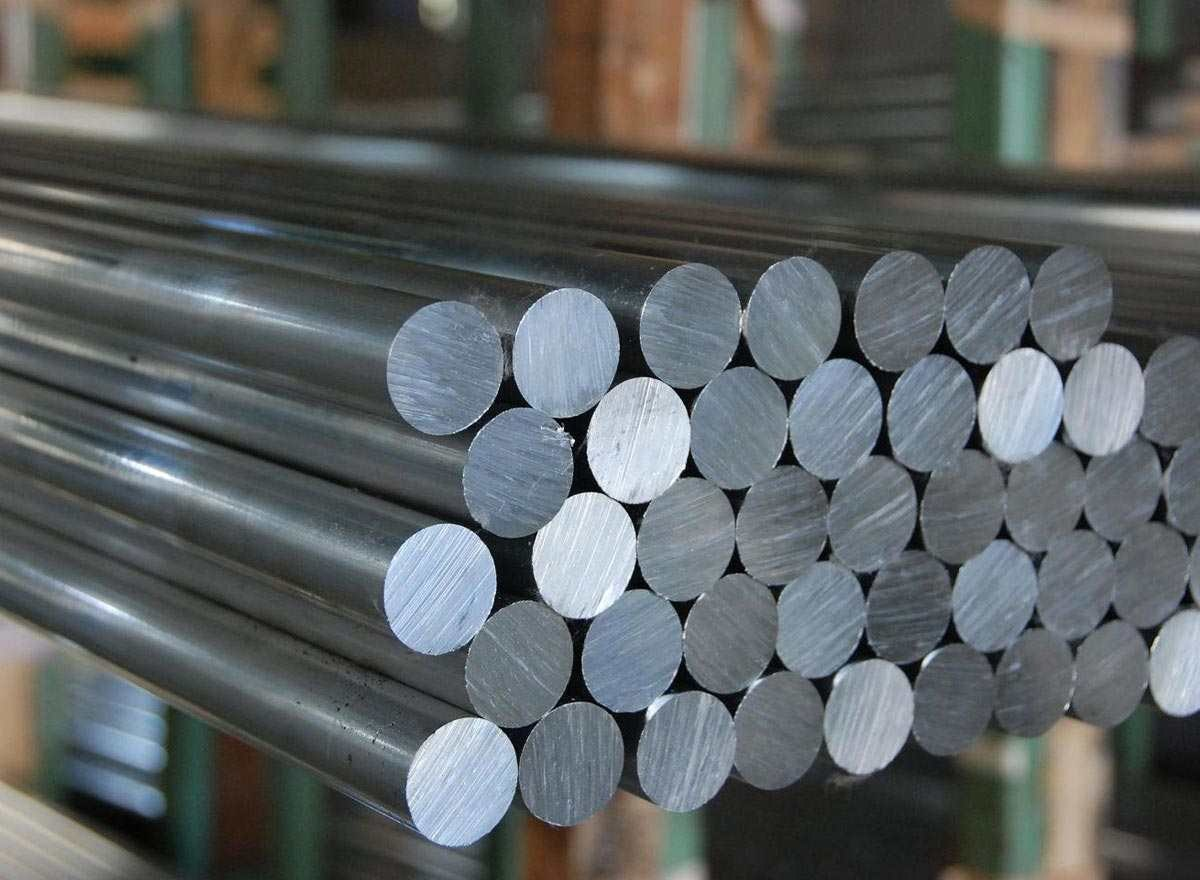
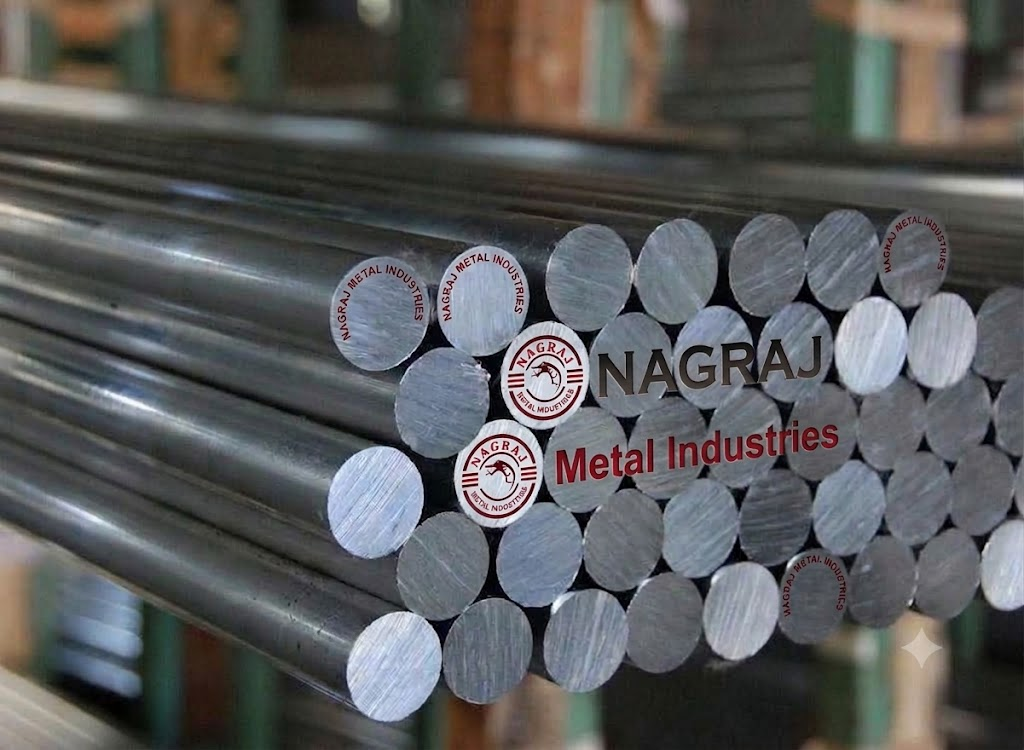
changes

diff --git a/src/pages/ProductsPage.tsx b/src/pages/ProductsPage.tsx
@@ -3,7 +3,7 @@ import { Link, useSearchParams } from "react-router-dom";
 import { getProducts } from "../data/products";
 import type { ScrapedProduct } from "../data/products";
 import { ProductsSidebar } from "../components/ProductsSidebar";
-import { WatermarkedImage } from "../components/WatermarkedImage";
+// import { WatermarkedImage } from "../components/WatermarkedImage";
 import {
   ChevronRight,
   Search,
@@ -513,12 +513,12 @@ export function ProductsPage() {
                   style={{ animationDelay: `${idx * 50}ms` }}
                 >
                   <div className="aspect-[4/3] bg-gray-100 relative">
-                    <WatermarkedImage
+                    {/* <WatermarkedImage
                       src={cat.image}
                       alt={cat.name}
                       className="w-full h-full"
                       imgClassName="group-hover:scale-[1.03] transition-transform duration-500"
-                    />
+                    /> */}
                     {/* Category index badge */}
                     <span className="absolute top-3 right-3 bg-white/95 backdrop-blur-sm text-[#8B1A1A] text-[10px] font-bold uppercase tracking-wider px-2 py-1 border border-[#8B1A1A]/20 z-20">
                       {String(idx + 1).padStart(2, "0")}
@@ -761,12 +761,12 @@ export function ProductsPage() {
                         className="group bg-white border border-gray-200 hover:border-[#8B1A1A] transition-all duration-300 flex flex-col overflow-hidden"
                       >
                         <div className="aspect-[4/3] bg-[#F7F7F7] relative">
-                          <WatermarkedImage
+                          {/* <WatermarkedImage
                             src={specializedData.image || PRODUCT_HERO_FALLBACK}
                             alt={subItem}
                             className="w-full h-full"
                             imgClassName="object-contain p-4 group-hover:scale-[1.03] transition-transform duration-500"
-                          />
+                          /> */}
                           <div className="absolute top-3 left-3 bg-[#8B1A1A] text-white text-[10px] font-bold uppercase tracking-wider px-2 py-1 z-20">
                             {specializedData.name}
                           </div>
@@ -886,12 +886,12 @@ export function ProductsPage() {
                           className="group bg-white border border-gray-200 hover:border-[#8B1A1A] transition-all duration-300 flex flex-col overflow-hidden"
                         >
                           <div className="aspect-[4/3] bg-[#F7F7F7] relative">
-                            <WatermarkedImage
+                            {/* <WatermarkedImage
                               src={img}
                               alt={title}
                               className="w-full h-full"
                               imgClassName="group-hover:scale-[1.03] transition-transform duration-500"
-                            />
+                            /> */}
                             {product.category && (
                               <span className="absolute top-3 left-3 bg-white/95 backdrop-blur-sm text-[#8B1A1A] text-[10px] font-bold uppercase tracking-wider px-2 py-1 border border-[#8B1A1A]/20 z-20">
                                 {product.category}
